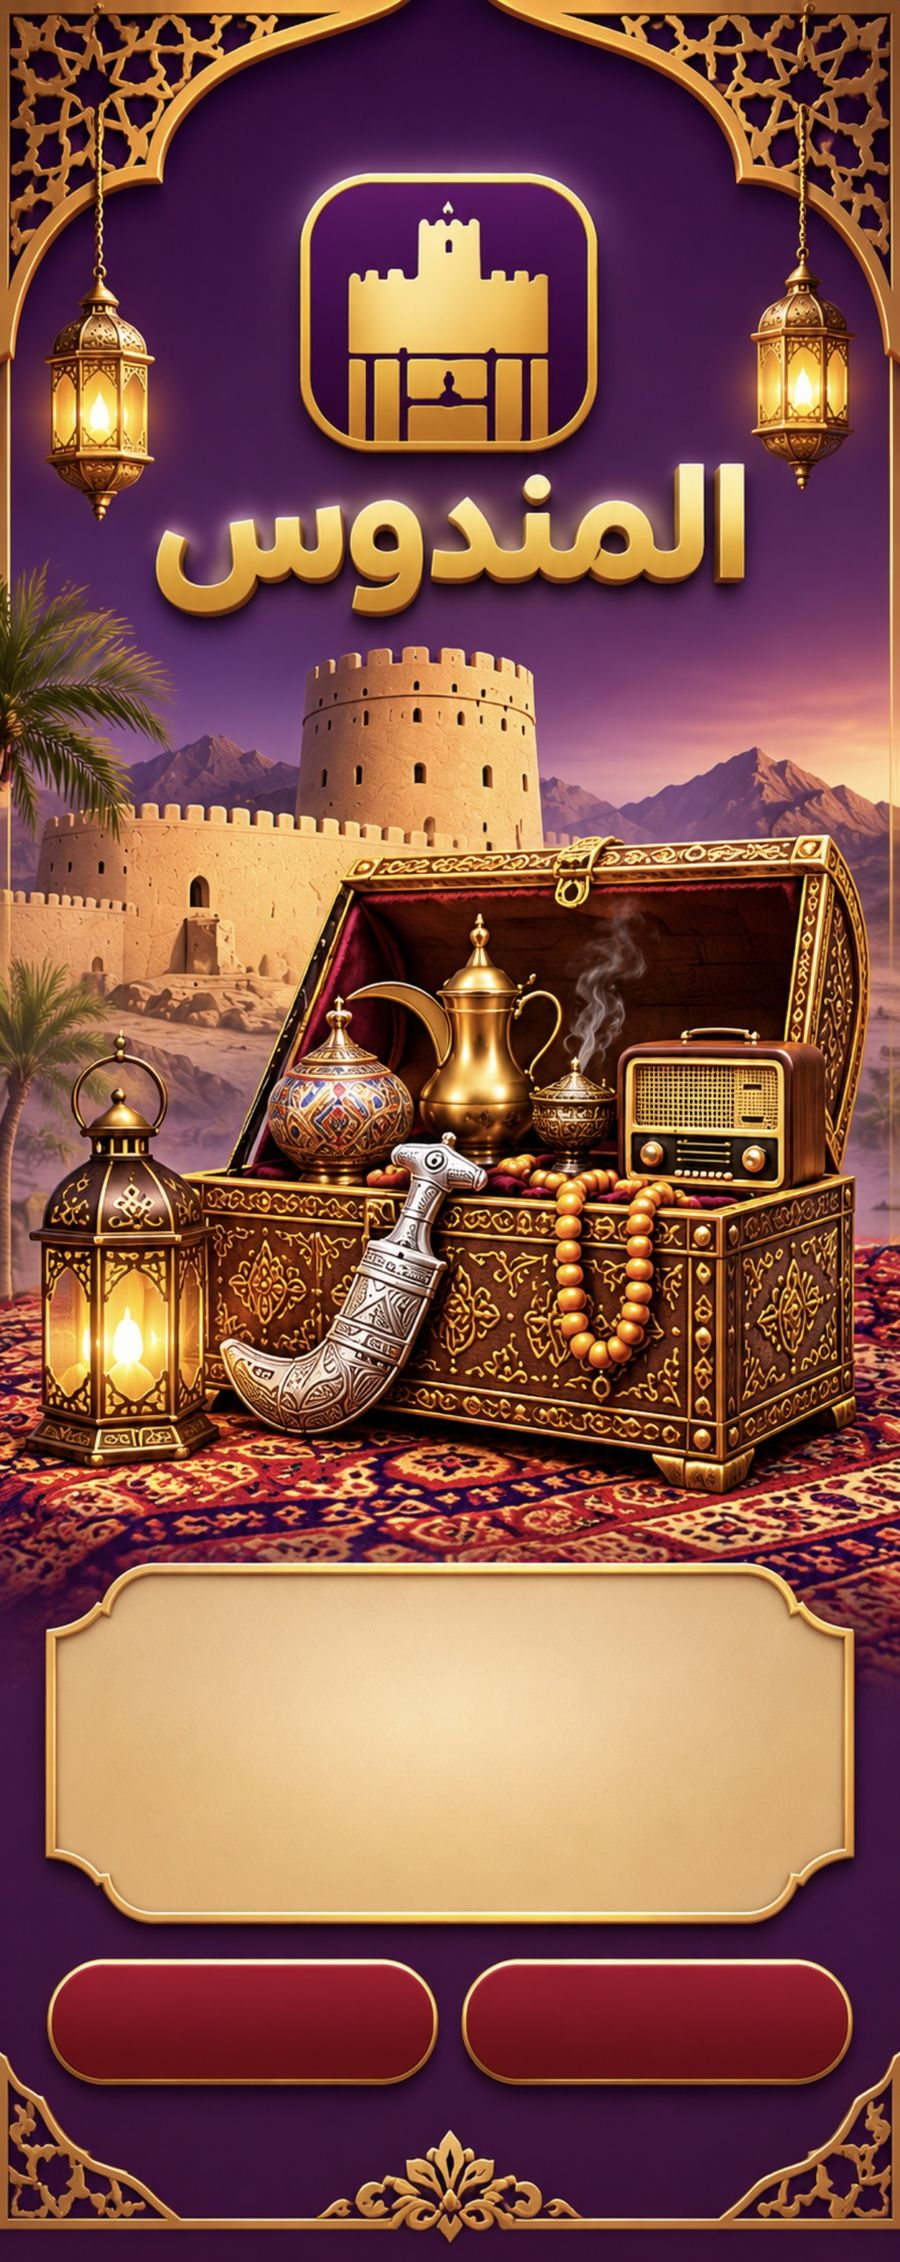
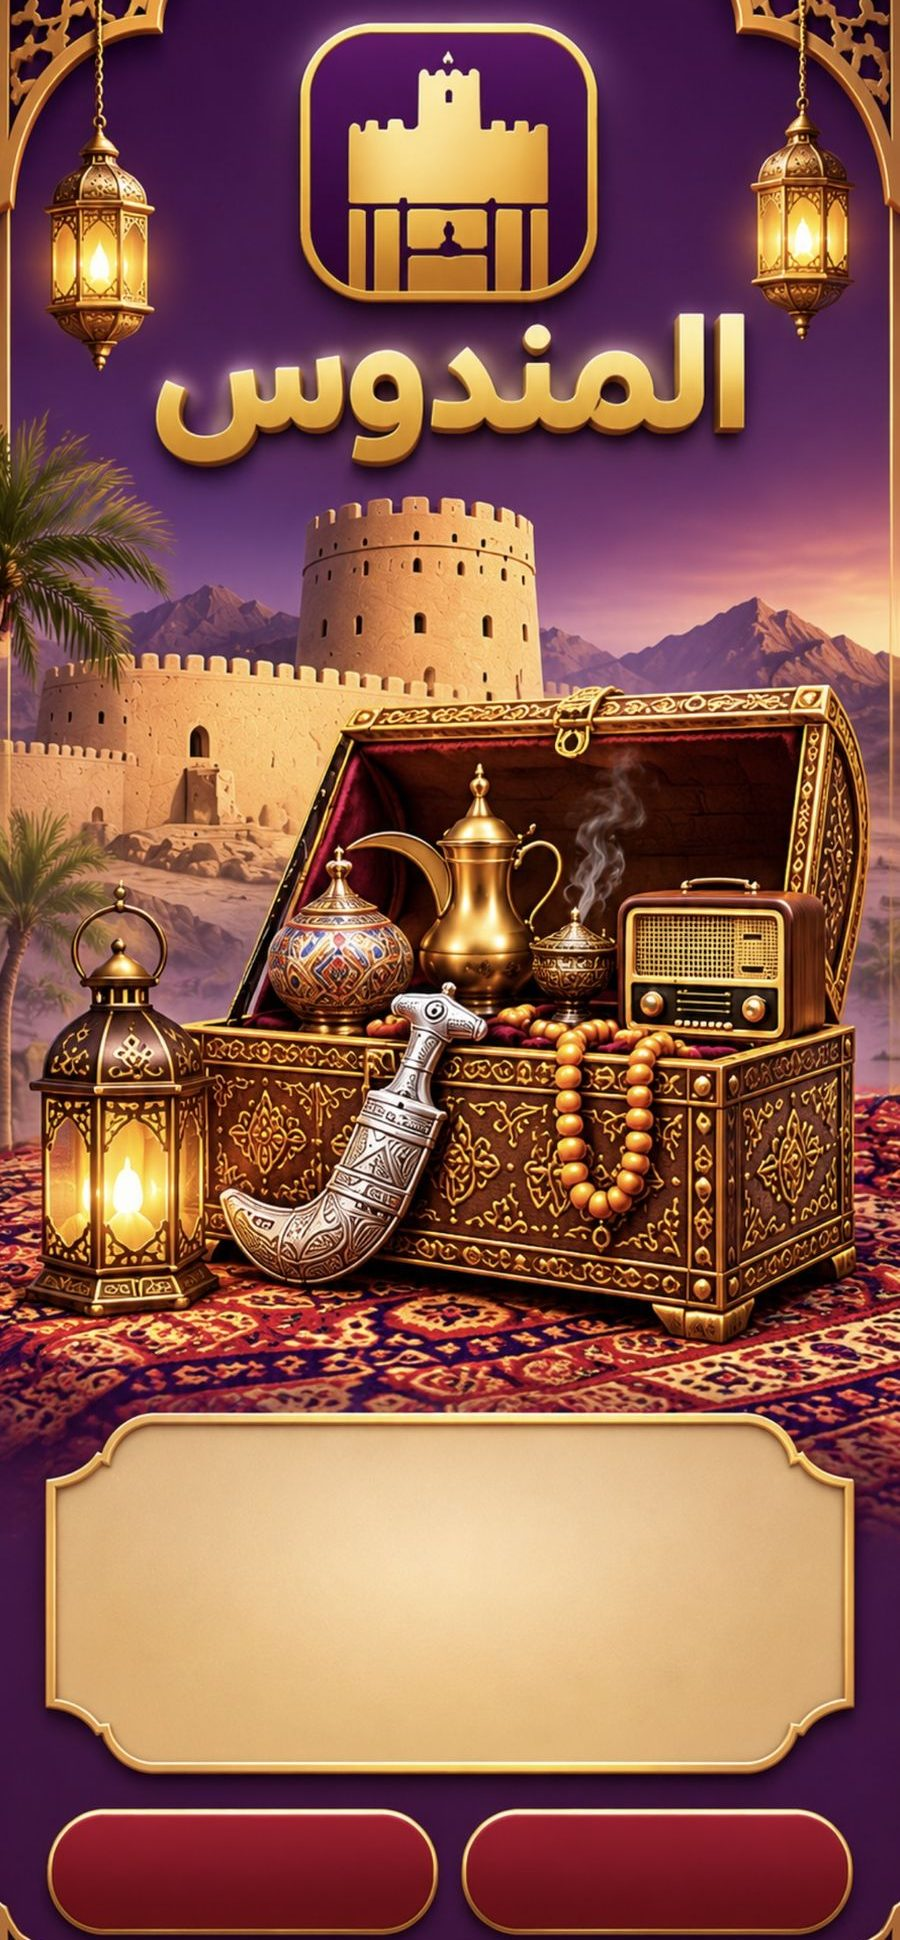
Mandoos gate: crop top/bottom ornaments so the art fills the screen width
Claude-Session: https://claude.ai/code/session_01BLY7rwJu2SGuWy1as6vWJj

diff --git a/index.html b/index.html
@@ -283,11 +283,11 @@ footer,footer a{color:#b49cc6!important}
 @font-face{font-family:"MandoosCairo";src:url(cairo-800.woff) format("woff");font-weight:800;font-display:swap}
 @font-face{font-family:"MandoosCairo";src:url(cairo-600.woff) format("woff");font-weight:600;font-display:swap}
 .gate{background:radial-gradient(120% 80% at 50% 40%,#4a1a66,#2a0b3e)!important;display:flex;align-items:center;justify-content:center;overflow:hidden;gap:0;padding:env(safe-area-inset-top,0px) 0 env(safe-area-inset-bottom,0px)}
-.gate .gbox{position:relative;flex:none;width:min(100vw,calc((100dvh - env(safe-area-inset-top,0px) - env(safe-area-inset-bottom,0px)) * 900 / 2262));aspect-ratio:900/2262;container-type:inline-size;border-radius:18px;overflow:hidden;box-shadow:0 18px 40px rgba(0,0,0,.45)}
+.gate .gbox{position:relative;flex:none;width:min(100vw,calc((100dvh - env(safe-area-inset-top,0px) - env(safe-area-inset-bottom,0px)) * 900 / 1940));aspect-ratio:900/1940;container-type:inline-size;border-radius:18px;overflow:hidden;box-shadow:0 18px 40px rgba(0,0,0,.45)}
 .gate .gimg{position:absolute;inset:0;width:100%;height:100%;display:block;animation:gfade .9s ease-out both}
-.gate .gpanel{position:absolute;left:8%;right:8%;top:70.4%;height:12.6%;display:flex;flex-direction:column;align-items:center;justify-content:center;gap:1.2cqw;animation:gup .8s .35s ease-out both}
+.gate .gpanel{position:absolute;left:8%;right:8%;top:74.35%;height:14.7%;display:flex;flex-direction:column;align-items:center;justify-content:center;gap:1.2cqw;animation:gup .8s .35s ease-out both}
 .gate .gpanel h1{margin:0;font:800 13.5cqw/1.15 'MandoosCairo',var(--display);background:linear-gradient(180deg,#6d2a88,#3b1052);-webkit-background-clip:text;background-clip:text;color:transparent;text-shadow:none;filter:drop-shadow(0 1px 0 rgba(255,236,190,.8))}
-.gate .gb{position:absolute;top:86.3%;height:5.4%;padding-top:1.4cqw!important;width:42.6%;white-space:nowrap;grid-template-columns:1fr;gap:0;text-align:center;border:0;border-radius:999px;background:none;color:#fff3d6;font:800 6.6cqw/1 'MandoosCairo',var(--display);display:grid;place-items:center;padding:0;text-shadow:0 2px 6px rgba(0,0,0,.45);animation:gup .8s .5s ease-out both}
+.gate .gb{position:absolute;top:92.9%;height:6.3%;padding-top:1.4cqw!important;width:42.6%;white-space:nowrap;grid-template-columns:1fr;gap:0;text-align:center;border:0;border-radius:999px;background:none;color:#fff3d6;font:800 6.6cqw/1 'MandoosCairo',var(--display);display:grid;place-items:center;padding:0;text-shadow:0 2px 6px rgba(0,0,0,.45);animation:gup .8s .5s ease-out both}
 .gate .gb:active{filter:brightness(1.2)}
 .gate .gin{left:51.4%}
 .gate .gnew{left:5.9%}
